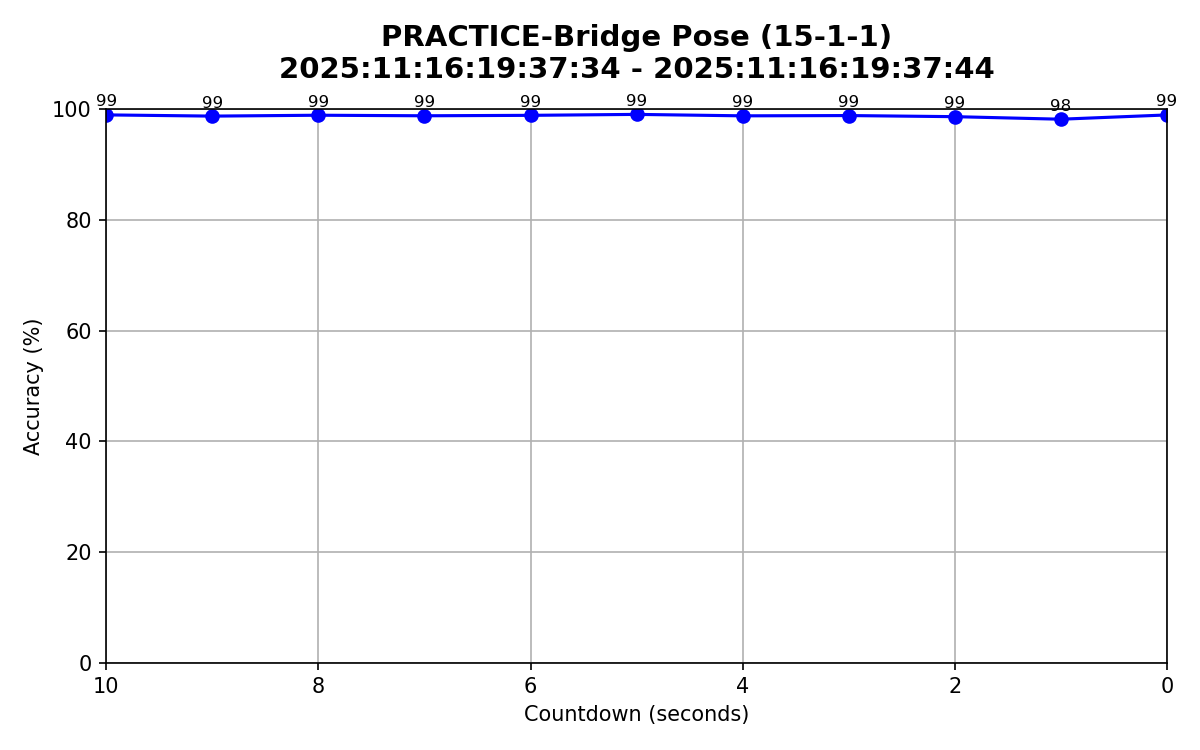
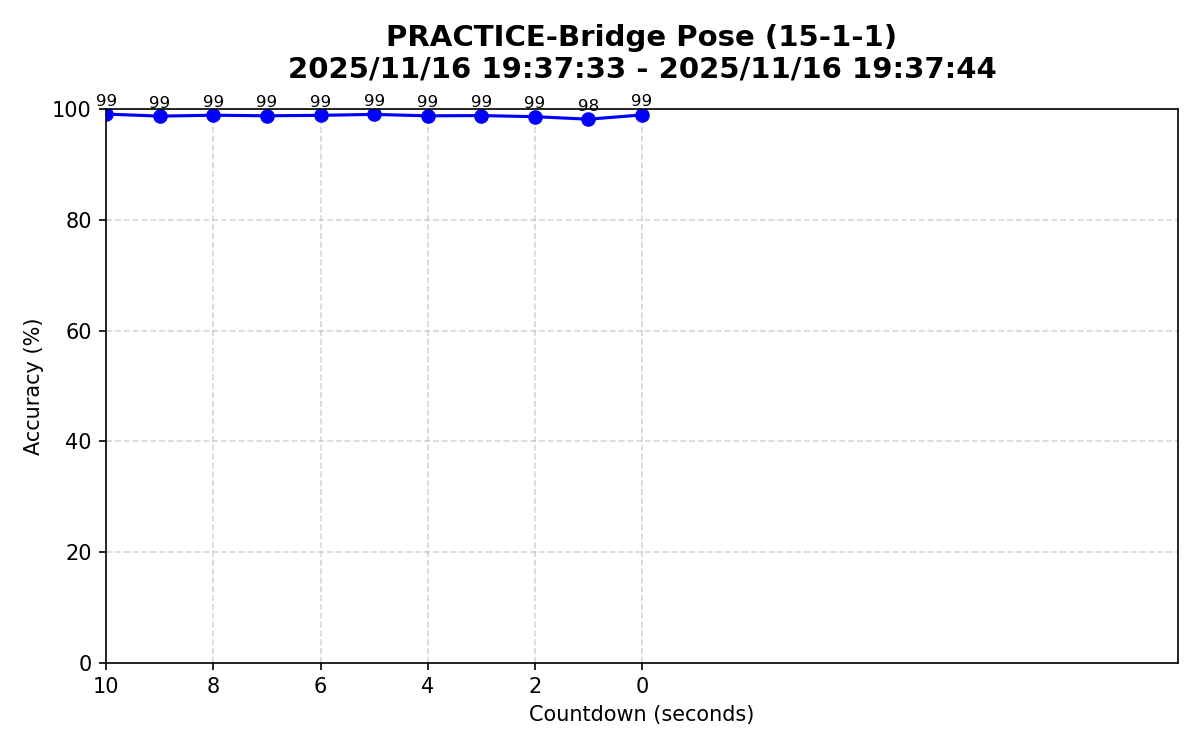
修正圖表顯示問題

diff --git a/generate_chart.py b/generate_chart.py
@@ -140,54 +140,132 @@ def fetch_and_group_data(user_id, mode_text, posture_text, db, start_date, end_d
     return final_groups
 
 def save_group_charts(groups, user_id, posture_text, mode_text):
+    """
+    Iterates through data groups and distributes data evenly across charts.
+    - Count <= 21: 1 chart
+    - Count 22-42: 2 charts (split evenly)
+    - Count > 42: 3+ charts (split evenly)
+    
+    Saves files to 'record_pic' folder with format: 
+    {user_id}_{mode}_{posture}_{major}-{minor}-{page}.png
+    """
+    if not groups:
+        return []
+
+    # Ensure output directory exists
     output_dir = os.path.join(os.path.dirname(__file__), "record_pic")
-    os.makedirs(output_dir, exist_ok=True)
-    paths = []
+    if not os.path.exists(output_dir):
+        os.makedirs(output_dir)
 
+    chart_paths = []
+    base_capacity = 21  # Max points per chart if only 1 page
+
+    # Sanitize names for filename
+    safe_posture = posture_text.replace(" ", "_").replace("/", "-")
+    safe_mode = mode_text.upper()
+
+    # --- Outer Loop: Process each group (session/cycle) ---
     for g in groups:
-        major, minor, rows = g["major"], g["minor"], g["rows"]
-        rows.sort(key=lambda r: r["countdown"], reverse=True)
+        # Extract data from the group dictionary
+        # The dictionary structure comes from fetch_and_group_data
+        major = g.get("major", 0)
+        minor = g.get("minor", 0)
+        rows = g.get("rows", [])
+        
+        if not rows:
+            continue
 
-        page_size = 21
-        num_pages = math.ceil(len(rows) / page_size)
-        num_pages = min(num_pages, 3)
+        # Sort rows by countdown descending (start from max countdown)
+        # rows.sort(key=lambda r: r["countdown"], reverse=True) # Optional: depends on if you want time order or countdown order
 
+        total_count = len(rows)
+
+        # Calculate required pages (ceiling division)
+        if total_count == 0:
+            num_pages = 0
+        else:
+            num_pages = (total_count + base_capacity - 1) // base_capacity
+
+        current_idx = 0
+
+        # --- Inner Loop: Generate pages for this group ---
         for page in range(num_pages):
-            chunk = rows[page * page_size:(page + 1) * page_size]
+            # --- Dynamic Distribution Logic ---
+            items_remaining = total_count - current_idx
+            pages_remaining = num_pages - page
+            
+            # Calculate chunk size for this page
+            chunk_size = (items_remaining + pages_remaining - 1) // pages_remaining
+            
+            # Slice data for current page
+            end_idx = current_idx + chunk_size
+            chunk = rows[current_idx : end_idx]
+            current_idx = end_idx
+
             if not chunk:
                 continue
 
-            x_vals = [int(r["countdown"]) for r in chunk]
-            y_vals = [float(r["accuracy"]) for r in chunk]
-            times = [r["timestamp"] for r in chunk]
+            # Prepare plotting data
+            try:
+                x_vals = [int(r["countdown"]) for r in chunk]
+                y_vals = [float(r["accuracy"]) for r in chunk]
+                times = [r["timestamp"] for r in chunk]
+            except KeyError as e:
+                print(f"Data error in group {major}-{minor}: {e}")
+                continue
 
-            times_sorted = sorted(times)
-            t_start = times_sorted[0].strftime("%Y/%m/%d %H:%M:%S")
-            t_end = times_sorted[-1].strftime("%Y/%m/%d %H:%M:%S")
+            # Determine time range for title
+            # Filter out None timestamps just in case
+            valid_times = [t for t in times if t is not None]
+            if valid_times:
+                times_sorted = sorted(valid_times)
+                t_start = times_sorted[0].strftime("%Y/%m/%d %H:%M:%S")
+                t_end = times_sorted[-1].strftime("%Y/%m/%d %H:%M:%S")
+            else:
+                t_start = "N/A"
+                t_end = "N/A"
 
-            title_main = f"{mode_text.upper()}-{posture_text} ({major}-{minor}-{page + 1})"
+            # Title format: MODE-POSTURE (Major-Minor-Page)
+            # page + 1 makes it 1-based index
+            title_main = f"{safe_mode}-{posture_text} ({major}-{minor}-{page + 1})"
             title_sub = f"{t_start} - {t_end}"
 
+            # Setup plot
             plt.figure(figsize=(8, 5))
             plt.plot(x_vals, y_vals, marker="o", color="blue")
 
+            # Add value labels
             for x, y in zip(x_vals, y_vals):
                 plt.text(x, y + 1, f"{y:.0f}", ha="center", va="bottom", fontsize=8, color="black")
 
             plt.xlabel("Countdown (seconds)")
             plt.ylabel("Accuracy (%)")
             plt.ylim(0, 100)
-            plt.xlim(max(x_vals), min(x_vals))
-            plt.xticks(range(max(x_vals), min(x_vals) - 1, -2))
+            
+            # Standard scaling: fit to data range
+            if len(x_vals) > 0:
+                x_max = max(x_vals)
+                x_min = min(x_vals)
+                if x_max == x_min:
+                    # Handle single point case
+                    plt.xlim(x_max + 1, x_max - 1)
+                    plt.xticks([x_max])
+                else:
+                    plt.xlim(x_max, x_min)
+                    plt.xticks(range(x_max, x_min - 1, -2))
 
             plt.title(f"{title_main}\n{title_sub}", fontsize=14, fontweight="bold", loc="center", pad=15)
-            plt.grid(True)
+            plt.grid(True, linestyle='--', alpha=0.7)
             plt.tight_layout()
 
-            filename = f"{user_id}_{mode_text.upper()}_{posture_text.replace(' ', '_')}({major}-{minor}-{page + 1}).png"
-            filepath = os.path.join(output_dir, filename)
-            plt.savefig(filepath, dpi=150)
+            # Save chart
+            # Filename includes major/minor to prevent overwriting
+            filename = f"{user_id}_{safe_mode}_{safe_posture}_{major}-{minor}-{page + 1}.png"
+            save_path = os.path.join(output_dir, filename)
+            
+            plt.savefig(save_path)
             plt.close()
-            paths.append(filepath)
 
-    return paths
+            chart_paths.append(save_path)
+
+    return chart_paths
